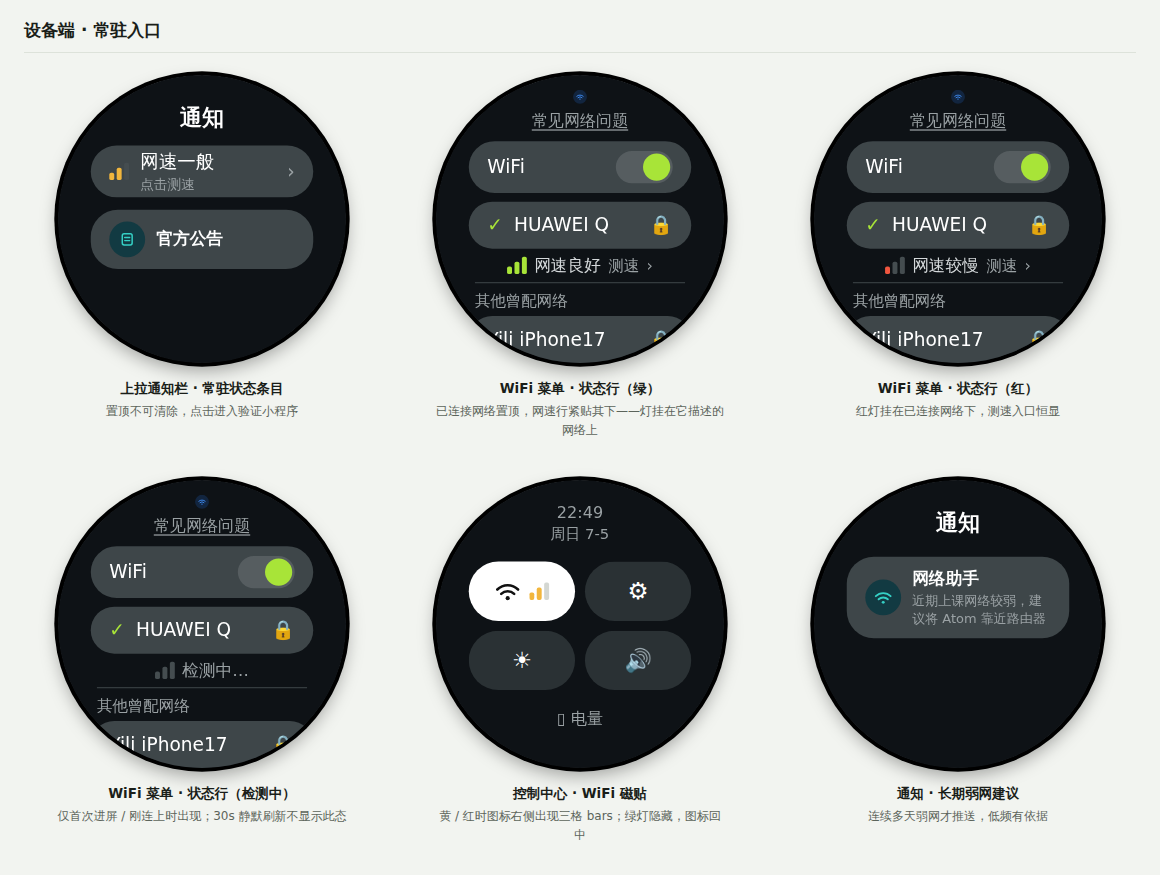
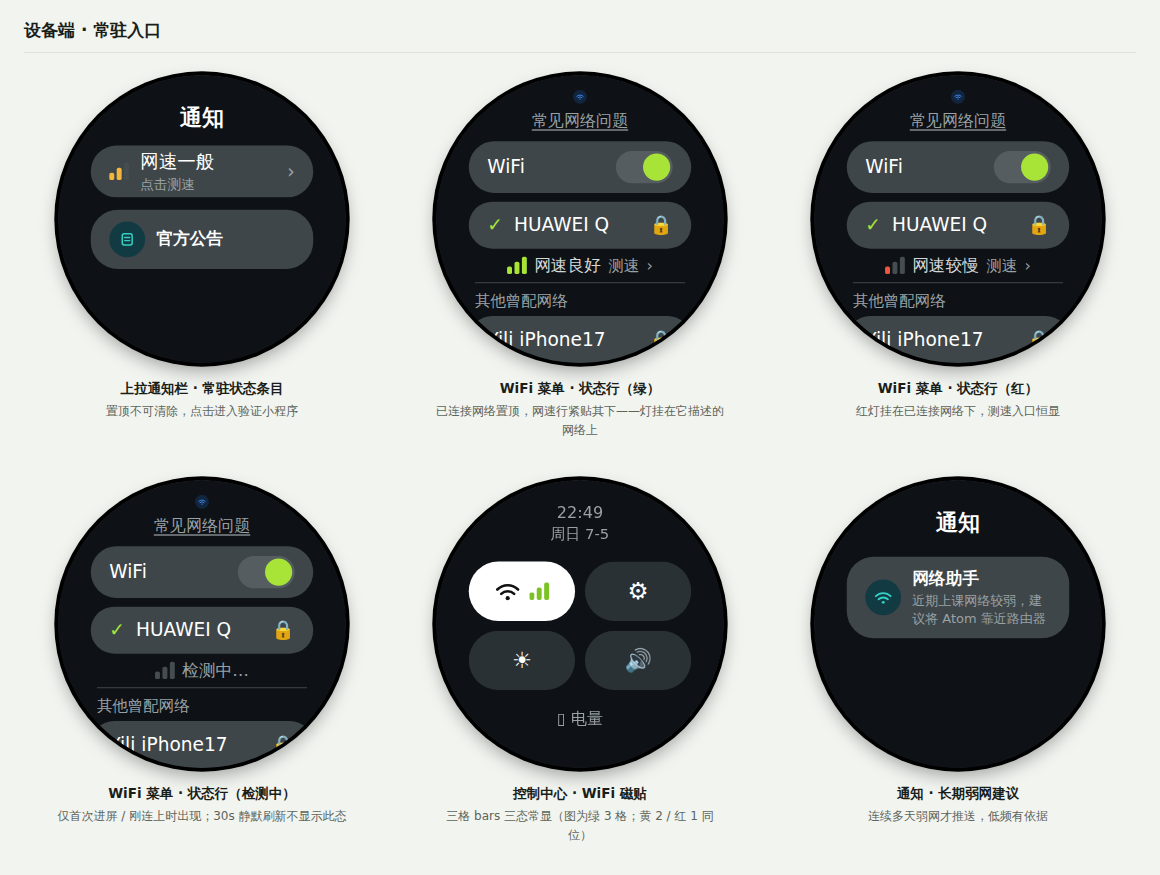
Thin-outline report card; quick-panel bars always visible
- Report area wrapped in a 1.5px rounded outline (14% white, r20, no
  fill) after side-by-side comparison with the separator-only layout:
  the visible card edge strengthens screenshot-as-report; the earlier
  rejection targeted filled containers, not hairline outlines
- Control-center WiFi tile now shows the 3-bar glyph in ALL states
  (3 green / 2 yellow / 1 red): green-silent governs proactive
  interruptions, not resident statics; a disappearing glyph reads as
  "not monitoring"; matches the notification-bar entry behavior
- Re-export both embedded PNGs

Claude-Session: https://claude.ai/code/session_01GK61VJL6HvXSFdCeuPzjiU

diff --git a/Demo-界面交互UI设计.html b/Demo-界面交互UI设计.html
@@ -73,7 +73,7 @@
   .mbars i { display: block; width: 3px; border-radius: 1px; }
   .mbars .b1 { height: 4px; } .mbars .b2 { height: 7px; } .mbars .b3 { height: 10px; }
   .mbars .dim { background: #555d57; }
-  .report-card { position: relative; width: 366px; padding: 8px 16px 6px; border-bottom: 1px solid rgba(255,255,255,.10); box-sizing: border-box; display: flex; flex-direction: column; align-items: center; flex: none; }
+  .report-card { position: relative; width: 366px; padding: 10px 16px 9px; border: 1.5px solid rgba(255,255,255,.14); border-radius: 20px; box-sizing: border-box; display: flex; flex-direction: column; align-items: center; flex: none; }
   .rc-metrics { display: flex; justify-content: space-between; width: 100%; margin-top: 7px; font-variant-numeric: tabular-nums; }
   .rc-metrics > div { text-align: center; }
   .rc-metrics .v { font-size: 24px; font-weight: 600; }
@@ -252,7 +252,7 @@
         <div class="cc-grid">
           <div class="cc-tile on">
             <svg width="42" height="34" viewBox="0 0 30 24"><path d="M3 10a17 17 0 0 1 24 0" stroke="#111" stroke-width="3" fill="none" stroke-linecap="round"/><path d="M7.5 15a11 11 0 0 1 15 0" stroke="#111" stroke-width="3" fill="none" stroke-linecap="round"/><circle cx="15" cy="20" r="2.4" fill="#111"/></svg>
-            <span class="bars" style="margin-left:14px"><i class="b1" style="background:var(--dev-warn)"></i><i class="b2" style="background:var(--dev-warn)"></i><i class="b3" style="background:#d4d7d2"></i></span>
+            <span class="bars" style="margin-left:14px"><i class="b1" style="background:#7cc224"></i><i class="b2" style="background:#7cc224"></i><i class="b3" style="background:#7cc224"></i></span>
           </div>
           <div class="cc-tile"><span style="font-size:38px">⚙</span></div>
           <div class="cc-tile"><span style="font-size:36px">☀</span></div>
@@ -260,7 +260,7 @@
         </div>
         <div class="cc-batt" data-en="▯ Battery">▯ 电量</div>
       </div></div>
-      <figcaption><b>控制中心 · WiFi 磁贴</b><span>黄 / 红时图标右侧出现三格 bars；绿灯隐藏，图标回中</span></figcaption>
+      <figcaption><b>控制中心 · WiFi 磁贴</b><span>三格 bars 三态常显（图为绿 3 格；黄 2 / 红 1 同位）</span></figcaption>
     </figure>
 
     <figure class="shot">

diff --git a/PRD-atom网络状态检测与信号同步.md b/PRD-atom网络状态检测与信号同步.md
@@ -101,7 +101,7 @@ ATOM 是一台通过 WiFi 联网的嵌入式训练设备，上课时通过 TRTC 
 
 ### A2 WiFi 快捷看板（控制中心磁贴，原 F2.1 / F2.5）
 
-- **A2.1** 黄 / 红时在磁贴内 WiFi 图标右侧显示小型三格 bars（2 格黄 / 1 格红）；绿灯不显示，图标回中（不给正常状态加噪音）。**决策记录**：不用图标弧格填充度表达质量（弧格 = 信号强度语义，「信号满格但宽带拥塞」时必然误导）；不用图标染色（与开关语义打架）；不用角标圆点（与全系统 bars 不一致 + 17px 过小 + 录制红点歧义）；
+- **A2.1** 磁贴内 WiFi 图标右侧**三态常显**小型三格 bars（3 格绿 / 2 格黄 / 1 格红）。**决策记录**：原方案绿灯隐藏 bars、图标回中（依据「绿灯静默」），评审后改为常显——①「绿灯静默」约束的是**主动打扰**（通知 / toast / 弹窗），常驻区的静态显示不构成打扰；②常显让用户对「这里能看网速质量」建立稳定预期，绿灯时 bars 消失反而会被疑为「没在检测 / 功能坏了」；③与通知栏常驻条目（绿灯也显示「网速良好」）行为一致。**决策记录**：不用图标弧格填充度表达质量（弧格 = 信号强度语义，「信号满格但宽带拥塞」时必然误导）；不用图标染色（与开关语义打架）；不用角标圆点（与全系统 bars 不一致 + 17px 过小 + 录制红点歧义）；
 - **A2.2** 系统状态栏若展示 WiFi 图标，黄 / 红时同步染色（与磁贴同一状态机）。
 
 ### A3 上拉通知栏（原 F1 + F7.5 / F5.3 通知）
@@ -145,7 +145,7 @@ ATOM 是一台通过 WiFi 联网的嵌入式训练设备，上课时通过 TRTC 
 - **A4.6 历史与精简**：结果本地存近 10 次（按 SSID 分组）并上报；小程序内「历史记录」次级入口（P2）；各页面移除顶部时钟（与检测任务无关的信息不上屏）；
 - **A4.7 波形图规范（时间密度 · 实时刷新 · 配色）**：
   - **配色**：↓ 下行 = 灰白 `#F2F5F6`、↑ 上行 = 紫色 `#A78BFA`，图例与指标标签带同色箭头（箭头 ↓↑ + 下行在前是唯一通用的行业惯例，颜色各家自定）。灰白 + 紫只占一个色相位、区分度高；曲线**禁用红 / 黄 / 绿**——三色已被红绿灯语义占用，曲线用灯色会造成「上行 = 绿灯」的误读（V1.0 前的稿子恰好踩过这个坑）；
-  - **分隔线而非容器**：报告卡不加底色容器，仅**下方一条 1px 细分隔线**（白 10% 不透明度）把报告区和操作区分开——上方不加线，表头（SSID + 日期）本身就是分组起点，再画线属重复；圆屏面积小，整块浅色底框显碎，细线既分组又不添料；
+  - **细线框卡片**：报告区（表头 + 波形 + 时间轴 + 四指标）用 **1.5px 细描边圆角框**（白 14% 不透明度、圆角 20px）整体包住，无填充底色。**决策记录**：对比过三版——①整块浅色填充底（早期，显碎、份量重，否）；②无框仅下分隔线（中期，干净但卡片边界只是隐含的）；③细描边框（采纳）：让「一张报告卡」有可见边界，截图即报告的卡片感更强，且描边无填充、不占视觉份量；
   - **0 Mbps 基线**：波形底部画一条 1px 基准线（白 22% 不透明度，位于秒数刻度行之上）——曲线悬空没有参照系时「离底多高」无从判断，基线 = 0 Mbps 给曲线一个地板，也顺势充当 x 轴线；
   - **笔触**：折线线宽约 1.5px、样本点 r ≈ 2px、最新点 r ≈ 3px——466 圆屏物理尺寸小，线过粗会显粗糙；
   - **屏缘环 = 进度专用**：**取消结果页 / 首页 / 失败态的状态色环**，屏缘环只保留一种用法——检测中的旋转进度环（宽约 10px）。**决策记录**：状态色环与「bars 灯色 + 标题 + 指标着色」三重冗余，整圈纯色视觉份量过重，且持续挤压顶排元素（bars 反复顶到环上）；去掉后状态表达零损失，「出现环 = 正在测速」反而成为一条清晰的新语义；
